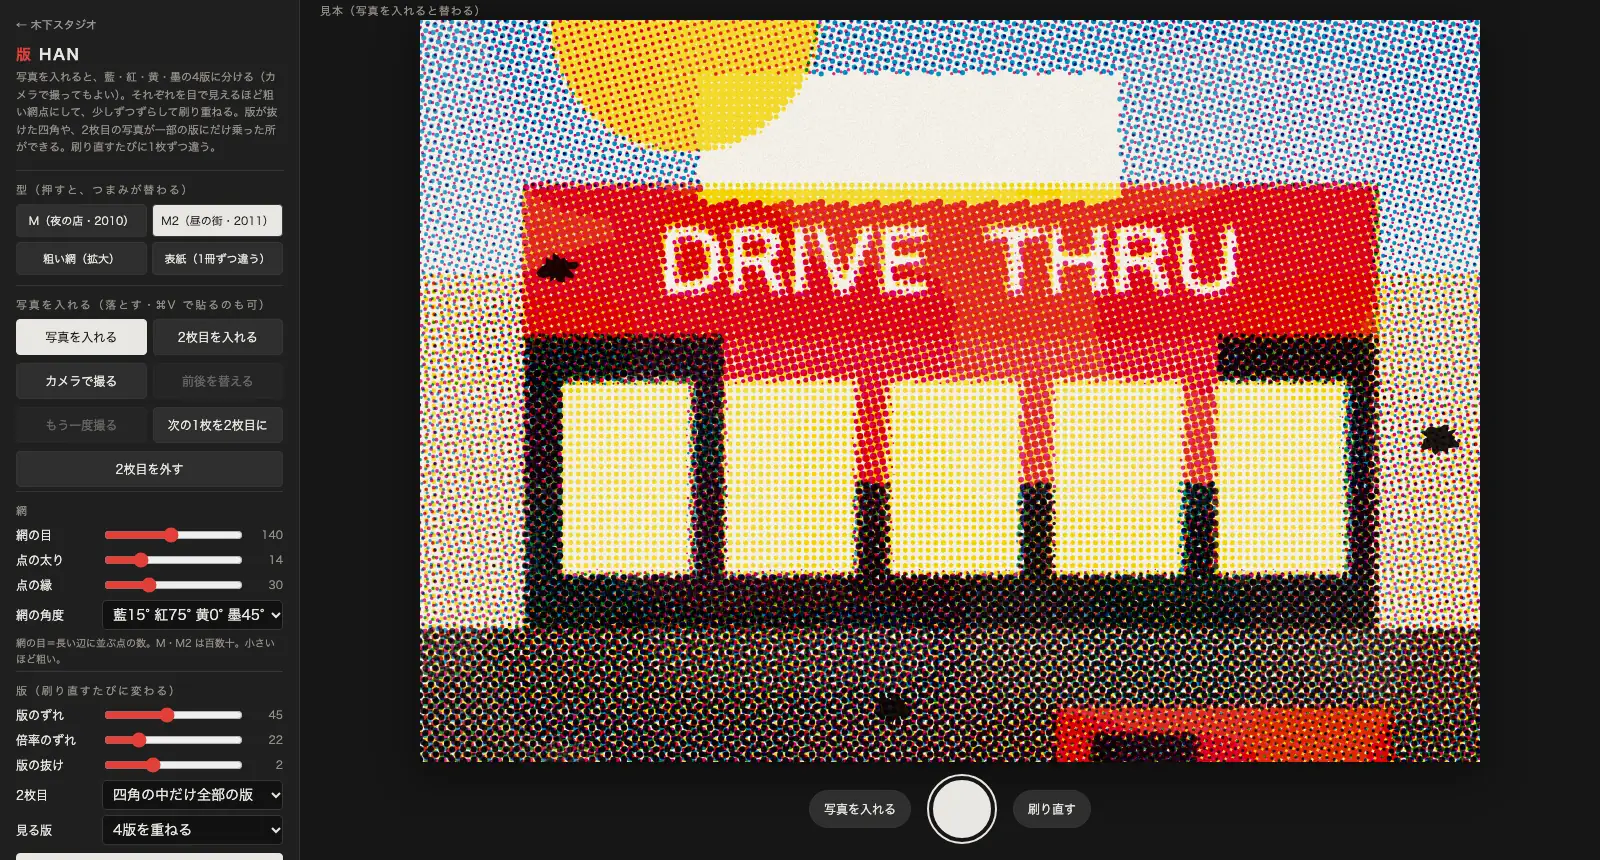
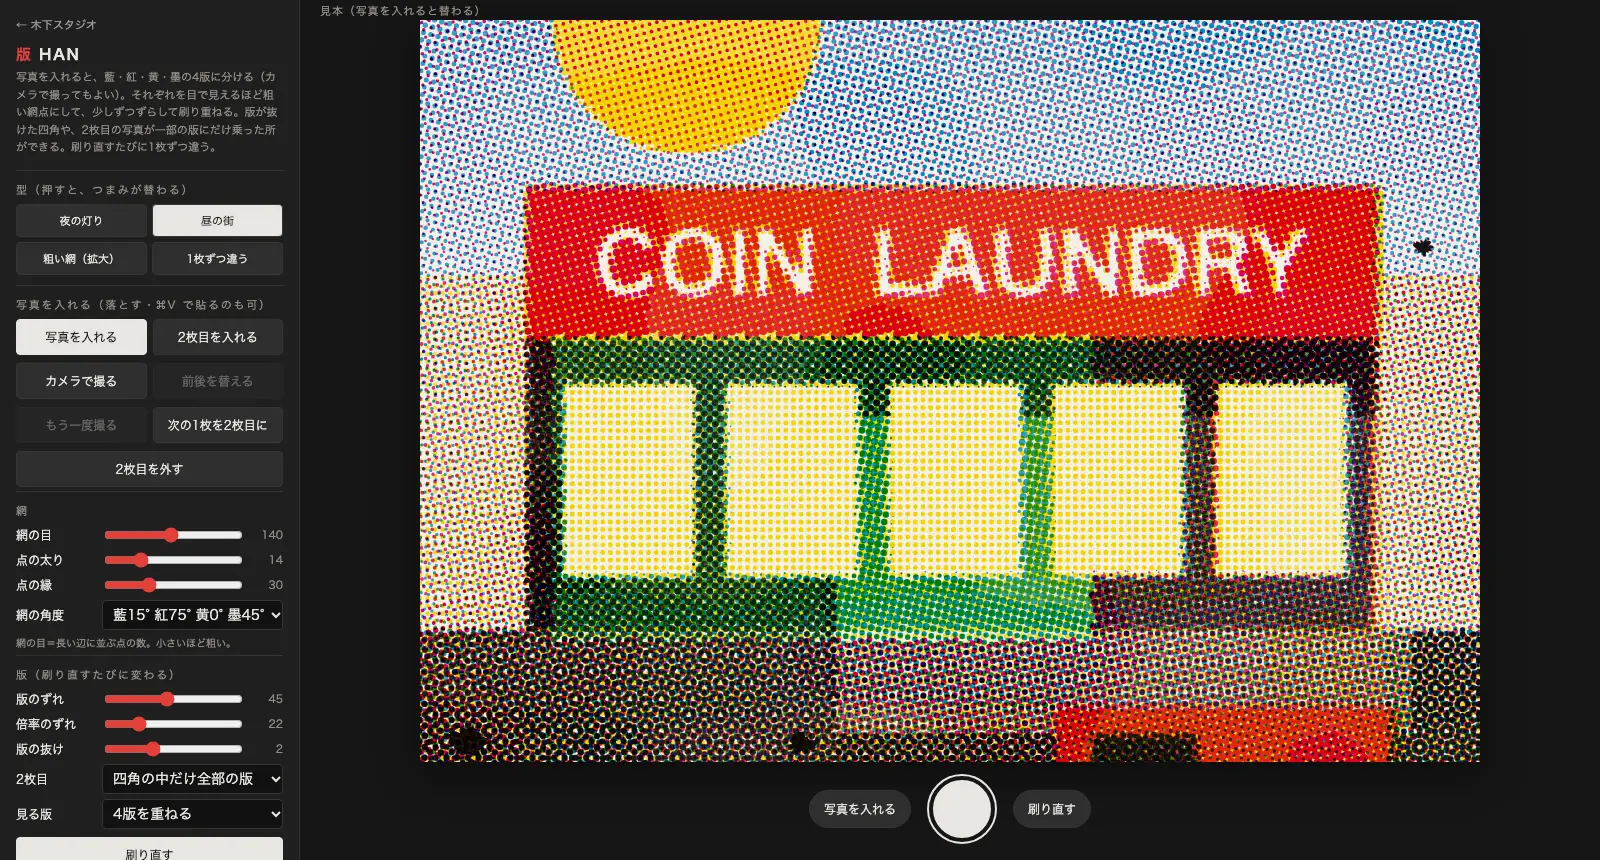
han: 型の名前と見本・注記から手がかりの作品名を外す
Claude-Session: https://claude.ai/code/session_01TDfKT6hN3PTiUce4kfYuxn

diff --git a/han/index.html b/han/index.html
@@ -10,16 +10,11 @@
 <meta property="og:image" content="https://kinoshita.studio/assets/img/img-ui-han.webp">
 <meta name="twitter:card" content="summary_large_image">
 <meta name="apple-mobile-web-app-capable" content="yes">
-<!-- 2026-11-20 木下「ホンマタカシ M や M2 のようなカメラアプリを作成したい　道具に　リサーチして再現してくれ」
-     調べ（実物の写真を見て決めた。出どころは Obsidian のノート）：
-       M（GALLERY 360°・2010・500部）／M2（同・2011・500部・32頁・250×350mm）＝世界のファストフード店の風景を
-       【写真を CMYK に分けて、ものすごく拡大したシルクスクリーン】で刷った本。表紙は1冊ずつ刷りが違う。
-       見えの特徴：① 網点が目で見えるほど粗い（ページ幅に百数十個）② 4版が少しずつずれる
-       ③ M2 は一部の四角だけ版が抜ける（藍と墨が抜けて赤と黄だけ＝橙の面）④ 別の写真が四角の中や一部の版にだけ乗る
-       ⑤ インクのむら・墨のしみ ⑥ 版ごとに倍率がわずかに違う所がある
+<!-- 2026-11-20 新設。写真を CMYK の4版に分け、目で見えるほど粗い網点のシルクスクリーンにして刷り重ねる。
+     見えの特徴：① 網点が粗い ② 4版が少しずつずれる ③ 一部の四角だけ版が抜ける（藍と墨が抜けると赤と黄だけ＝橙の面）
+       ④ 別の写真が四角の中や一部の版にだけ乗る ⑤ インクのむら・墨のしみ ⑥ 版ごとに倍率がわずかに違う ⑦ 刷るたびに違う
      仕組み：写真 → 明るさ/コントラスト/彩度 → CMYK（墨は灰色の成分から取る）→ 版ごとに角度の違う網の格子
-       （藍15°・紅75°・黄0°・墨45°）で、格子の点の濃さ＝円の面積 → 版ごとにずらして紙へ乗算で刷る。
-     ⚠ 店のロゴや看板をこの道具の見本に入れない（撮るのは使う人）。 -->
+       （藍15°・紅75°・黄0°・墨45°）で、格子の点の濃さ＝円の面積 → 版ごとにずらして紙へ乗算で刷る。 -->
 <style>
 :root{--bg:#161616;--panel:#202020;--line:#353535;--tx:#e8e6e1;--sub:#959189;--ac:#e2403a}
 *{box-sizing:border-box}
@@ -86,7 +81,7 @@ video{position:absolute;width:1px;height:1px;opacity:0;pointer-events:none}
     <label>点の太り<input type="range" id="gain" min="0" max="60" value="16"><span class="v"></span></label>
     <label>点の縁<input type="range" id="rough" min="0" max="100" value="30"><span class="v"></span></label>
     <label>網の角度<select id="angles" style="grid-column:2/4"><option value="std">藍15° 紅75° 黄0° 墨45°（ふつうの4色）</option><option value="same">全部45°（版が干渉する）</option><option value="flat">全部0°（格子が揃う）</option></select></label>
-    <p class="small" style="margin:2px 0 0">網の目＝長い辺に並ぶ点の数。M・M2 は百数十。小さいほど粗い。</p>
+    <p class="small" style="margin:2px 0 0">網の目＝長い辺に並ぶ点の数。小さいほど粗い。</p>
   </div>
   <div class="grp"><div class="t">版（刷り直すたびに変わる）</div>
     <label>版のずれ<input type="range" id="mis" min="0" max="100" value="35"><span class="v"></span></label>
@@ -112,7 +107,7 @@ video{position:absolute;width:1px;height:1px;opacity:0;pointer-events:none}
     <div class="presets" id="inkset" style="margin-top:6px;grid-template-columns:repeat(3,1fr)"></div>
   </div>
   <div class="grp"><div class="t">紙の形と書き出し</div>
-    <label>紙<select id="asp" style="grid-column:2/4"><option value="src">撮ったまま</option><option value="0.714">本 250×350（M2）</option><option value="0.8">縦長 4:5</option><option value="1">正方形 1:1</option><option value="0.5625">縦長 9:16</option><option value="1.5">横長 3:2</option><option value="1.428">見開き 横長</option></select></label>
+    <label>紙<select id="asp" style="grid-column:2/4"><option value="src">撮ったまま</option><option value="0.714">本 5:7</option><option value="0.8">縦長 4:5</option><option value="1">正方形 1:1</option><option value="0.5625">縦長 9:16</option><option value="1.5">横長 3:2</option><option value="1.428">見開き 横長</option></select></label>
     <label>PNGの大きさ<select id="outpx" style="grid-column:2/4"><option value="1080">長い辺 1080</option><option value="2000" selected>長い辺 2000</option><option value="3500">長い辺 3500</option></select></label>
   </div>
   <div class="row"><button class="p" id="png">PNGで保存</button><button id="svg">SVGで保存</button></div>
@@ -122,7 +117,7 @@ video{position:absolute;width:1px;height:1px;opacity:0;pointer-events:none}
   <input type="file" id="jfile" accept=".json,application/json" hidden>
   <p id="msg"></p>
   <p class="lead" style="margin-top:12px">SVG は1点1つの円・版ごとに1つのまとまり（乗算）。この道具の SVG は読むと写真と設定と刷りに戻る。ほかの SVG は1枚目の写真として入れる。落とすとき Shift を押していると2枚目になる。むら・紙の粒は PNG と画面だけ。</p>
-  <p class="small">手がかり：ホンマタカシ『M』（GALLERY 360°・2010）『M2』（同・2011）の、写真を CMYK に分けて大きく拡大したシルクスクリーンの刷り方。写真は撮る人のもの。カメラの映像はこの端末の中だけで処理し、どこにも送らない。</p>
+  <p class="small">カメラの映像はこの端末の中だけで処理し、どこにも送らない。</p>
 </div>
 <div id="stage">
   <div id="state"></div>
@@ -150,7 +145,7 @@ function sample(){const c=document.createElement('canvas');c.width=1200;c.height
   g.fillStyle='#f4c21b';g.beginPath();g.arc(300,330,150,0,Math.PI*2);g.fill();
   g.fillStyle='#2b2b30';g.fillRect(120,690,960,330);
   g.fillStyle='#f6e7b0';for(let i=0;i<5;i++)g.fillRect(160+i*185,740,150,220);
-  g.fillStyle='#ffffff';g.font='bold 92px sans-serif';g.textAlign='center';g.fillText('DRIVE  THRU',600,640);
+  g.fillStyle='#ffffff';g.font='bold 92px sans-serif';g.textAlign='center';g.fillText('COIN  LAUNDRY',600,640);
   gr=g.createLinearGradient(0,1020,0,1500);gr.addColorStop(0,'#5d5a55');gr.addColorStop(1,'#26231f');g.fillStyle=gr;g.fillRect(0,1020,1200,480);
   g.fillStyle='#b8322a';g.fillRect(720,1110,380,170);g.fillStyle='#202224';g.fillRect(760,1140,120,60);
   g.fillStyle='#f0f0f0';g.fillRect(560,1180,40,40);
@@ -328,10 +323,10 @@ const fmt={N:x=>x,gain:x=>x,rough:x=>x,mis:x=>x,scl:x=>x,drop:x=>x,bri:x=>x,con:
 function showV(){K.forEach(id=>{const s=$(id).parentElement.querySelector('.v');if(s)s.textContent=fmt[id]($(id).value)})}
 K.concat(TXT).forEach(id=>{$(id).addEventListener('input',()=>{showV();document.querySelectorAll('#presets button').forEach(b=>b.classList.remove('on'));if(live&&!frozen)return;later()})});
 const PRE=[
-  {n:'M（夜の店・2010）',s:{N:110,gain:16,rough:30,mis:28,scl:6,drop:0,bri:4,con:14,sat:135,kgen:60,uneven:25,blobs:0,grain:35,angles:'std',dbl:'plates',asp:'0.714'}},
-  {n:'M2（昼の街・2011）',s:{N:140,gain:14,rough:30,mis:45,scl:22,drop:2,bri:4,con:12,sat:120,kgen:65,uneven:35,blobs:3,grain:35,angles:'std',dbl:'rect',asp:'1.428'}},
+  {n:'夜の灯り',s:{N:110,gain:16,rough:30,mis:28,scl:6,drop:0,bri:4,con:14,sat:135,kgen:60,uneven:25,blobs:0,grain:35,angles:'std',dbl:'plates',asp:'0.714'}},
+  {n:'昼の街',s:{N:140,gain:14,rough:30,mis:45,scl:22,drop:2,bri:4,con:12,sat:120,kgen:65,uneven:35,blobs:3,grain:35,angles:'std',dbl:'rect',asp:'1.428'}},
   {n:'粗い網（拡大）',s:{N:54,gain:12,rough:20,mis:30,scl:8,drop:0,bri:0,con:20,sat:130,kgen:70,uneven:20,blobs:0,grain:30,angles:'std',dbl:'rect',asp:'0.714'}},
-  {n:'表紙（1冊ずつ違う）',s:{N:90,gain:22,rough:45,mis:70,scl:40,drop:4,bri:0,con:25,sat:150,kgen:60,uneven:55,blobs:5,grain:45,angles:'std',dbl:'rect',asp:'0.714'}},
+  {n:'1枚ずつ違う',s:{N:90,gain:22,rough:45,mis:70,scl:40,drop:4,bri:0,con:25,sat:150,kgen:60,uneven:55,blobs:5,grain:45,angles:'std',dbl:'rect',asp:'0.714'}},
 ];
 const pb=$('presets');PRE.forEach((p,i)=>{const b=document.createElement('button');b.textContent=p.n;b.onclick=()=>{applySettings(p.s);SEED=(Math.random()*1e9)|0;pb.querySelectorAll('button').forEach(x=>x.classList.remove('on'));b.classList.add('on');if(!(live&&!frozen))draw(false);history.replaceState(null,'','?p='+i)};pb.appendChild(b)});
 const INKS=[{n:'プロセス',c:['#0098d8','#e5007f','#ffe100','#1d1a1a','#f3efe6']},{n:'蛍光の紅',c:['#00a3e0','#ff2a8a','#fff200','#221e1f','#f4f1ea']},{n:'褪せた紙',c:['#3b8fb8','#d2416f','#efcf3a','#2a2522','#e9e0cc']}];
